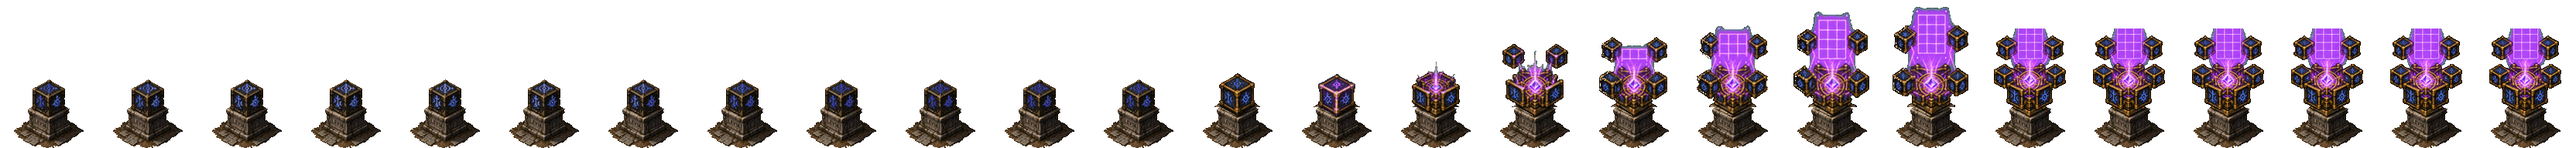
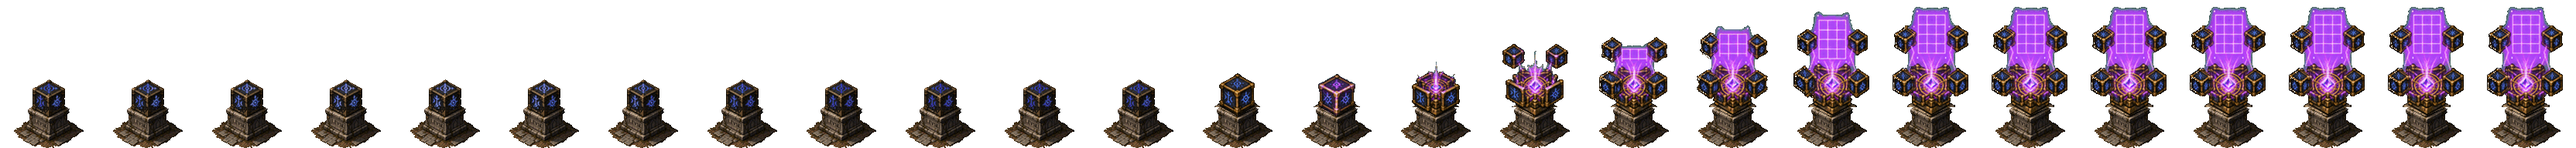
v1.12.295: Levski's Cube opens onto a whole panel - the opened state holds the last opening frame; the live view draws only the items, on its painted grid; waypoint sigils keep off quest entrances
- levski_cube.png: frames 20-25 = frame 19 (user, 2026-10-01, previewed on the Levski's Cube Frames page); every opened
  still was cropped at the top. tools/LevskiCubeRepair.cs holds frame 19 accordingly.
- DrawLevskiCubeLiveGrid: no glaze or rules any more (user: the painted grid is enough) - the window's items only, in
  12 px cells from (46, 19), the painted grid's.
- ScoreWaypointTile refuses tiles within 3 of an active quest entrance on the floor (round 57 audit: the Poisoned Water
  entrance is a quest position, not a stair trigger, and a waypoint arrival on it walked into the quest level).

Changed region(s): [[0.75, 0.0312, 1.0, 0.7812]]

diff --git a/Source/oracool/levski_roar.cpp b/Source/oracool/levski_roar.cpp
@@ -1632,13 +1632,13 @@ std::optional<ColouredSpriteList> CubeSheet;
 bool CubeSheetTried = false;
 
 /**
- * @brief The window's grid on the Cube's pink panel, in the frame's pixels: where the painted panel stands in the opened
- * frames (measured on the built sheet, 2026-10-01), 3 x 4 cells of 11 like the window's. The stills cut the panel's top
- * off, so this panel is drawn whole, a few pixels above that cut.
+ * @brief Where the window's items are drawn on the Cube, in the frame's pixels: the cells of the painted 3x4 grid of the held
+ * opened frame - the last opening frame since v1.12.295, whose panel is whole (every opened still was cropped at the top).
+ * 12 px cells from (46, 19), on the painted lines to within a pixel. No grid of its own is drawn (user, 2026-10-01).
  */
-constexpr int CubePanelLeft = 48;
-constexpr int CubePanelBottom = 71;
-constexpr int CubePanelCell = 11;
+constexpr int CubePanelLeft = 46;
+constexpr int CubePanelBottom = 67;
+constexpr int CubePanelCell = 12;
 constexpr int CubePanelWidth = LevskiGridColumns * CubePanelCell;
 constexpr int CubePanelHeight = LevskiGridRows * CubePanelCell;
 
@@ -1754,18 +1754,7 @@ void DrawLevskiCubeLiveGrid(const Surface &out, const Object &cube, Point bottom
 		return;
 	const int frameTop = bottomLeft.y - static_cast<int>((*cube._oAnimData)[cube._oAnimFrame - 1].height()) + 1;
 	const Point origin { bottomLeft.x + CubePanelLeft, frameTop + CubePanelBottom - CubePanelHeight };
-	// The panel: a lavender glaze over the painted one (and over the sky where the stills cut it off), its rules pale.
-	constexpr uint32_t Glaze = 0xB450EC;
-	constexpr uint32_t Rule = 0xEEC0FF;
-	for (int y = 0; y <= CubePanelHeight; y++)
-		for (int x = 0; x <= CubePanelWidth; x++)
-			BlendPixel(out, origin.x + x, origin.y + y, Glaze, 150);
-	for (int c = 0; c <= LevskiGridColumns; c++)
-		for (int y = 0; y <= CubePanelHeight; y++)
-			BlendPixel(out, origin.x + c * CubePanelCell, origin.y + y, Rule, 200);
-	for (int r = 0; r <= LevskiGridRows; r++)
-		for (int x = 0; x <= CubePanelWidth; x++)
-			BlendPixel(out, origin.x + x, origin.y + r * CubePanelCell, Rule, 200);
+	// No grid of its own (user, 2026-10-01): the held frame's painted grid is the grid; only the items are drawn, in its cells.
 	// What the window holds, cell for cell. Only the Cube's own window: Griswold's and Ogden's books leave it shut anyway.
 	if (!WindowOpen || WindowHost != TransmuteHost::Cube)
 		return;

diff --git a/tools/LevskiCubeRepair.cs b/tools/LevskiCubeRepair.cs
@@ -6,7 +6,7 @@
 //    their inner edge on the cut cube's inner edge and their bottom on its bottom. The closing plays these frames backwards, so
 //    it is mended with them.
 // 2. The opened loop's tear. Its six frames are six different stills, so the panel, the glow and all four sub-cubes jump
-//    from frame to frame. The loop now holds the one whole frame, OpenHoldFrame; the game's own rune pulse, glow pulse and
+//    from frame to frame. The loop now holds the last opening frame, OpenHoldFrame (whole panel, painted grid); the rune pulse, glow pulse and
 //    live grid (levski_roar.cpp) keep it alive.
 //
 // Runs ONCE, after LevskiCubeSteady, on a sheet freshly built from the stills (build_levski_cube_sheet.cmd does exactly
@@ -22,7 +22,10 @@ using System.Text;
 public static class LevskiCubeRepair
 {
 	const int W = 128, H = 192;
-	const int OpenFirst = 20, OpenLast = 25, OpenHoldFrame = 20;
+	const int OpenFirst = 20, OpenLast = 25;
+	// The last OPENING frame (user, 2026-10-01): its panel is whole with a painted 3x4 grid, where every opened still was
+	// cropped at the top - and the opening then runs straight into the held frame.
+	const int OpenHoldFrame = 19;
 	const int CutX = 21; // the straight edge the stills cut the left cubes at
 
 	// Per repaired frame: the rows each sub-cube pair lives in, and the column the left cube's window stops at (where the
@@ -172,8 +175,6 @@ public static class LevskiCubeRepair
 			}
 		}
 		for (int f = OpenFirst; f <= OpenLast; f++) {
-			if (f == OpenHoldFrame)
-				continue;
 			for (int y = 0; y < H; y++)
 				for (int x = 0; x < W; x++)
 					s[y * sw + f * W + x] = s[y * sw + OpenHoldFrame * W + x];

diff --git a/Source/objects.cpp b/Source/objects.cpp
@@ -4997,6 +4997,15 @@ int ScoreWaypointTile(Point position)
 	}
 	if (DistanceToNearestTrigger(position) < WaypointMinTriggerDistance)
 		return -1;
+	// Nor on a quest's way in that is no stair trigger (round 57 audit: the Poisoned Water entrance on level 2 is a quest
+	// position, not in trigs[] and not a set piece - a waypoint arrival on it walked the hero straight into the quest level).
+	if (!setlevel) {
+		for (const Quest &quest : Quests) {
+			if (quest._qslvl != 0 && quest._qlevel == currlevel && quest._qactive != QUEST_NOTAVAIL
+			    && position.WalkingDistance(quest.position) < WaypointMinTriggerDistance)
+				return -1;
+		}
+	}
 
 	int openness = WaypointMinClearRadius;
 	while (openness < WaypointPreferredClearRadius && IsWaypointAreaClear(position, openness + 1))
